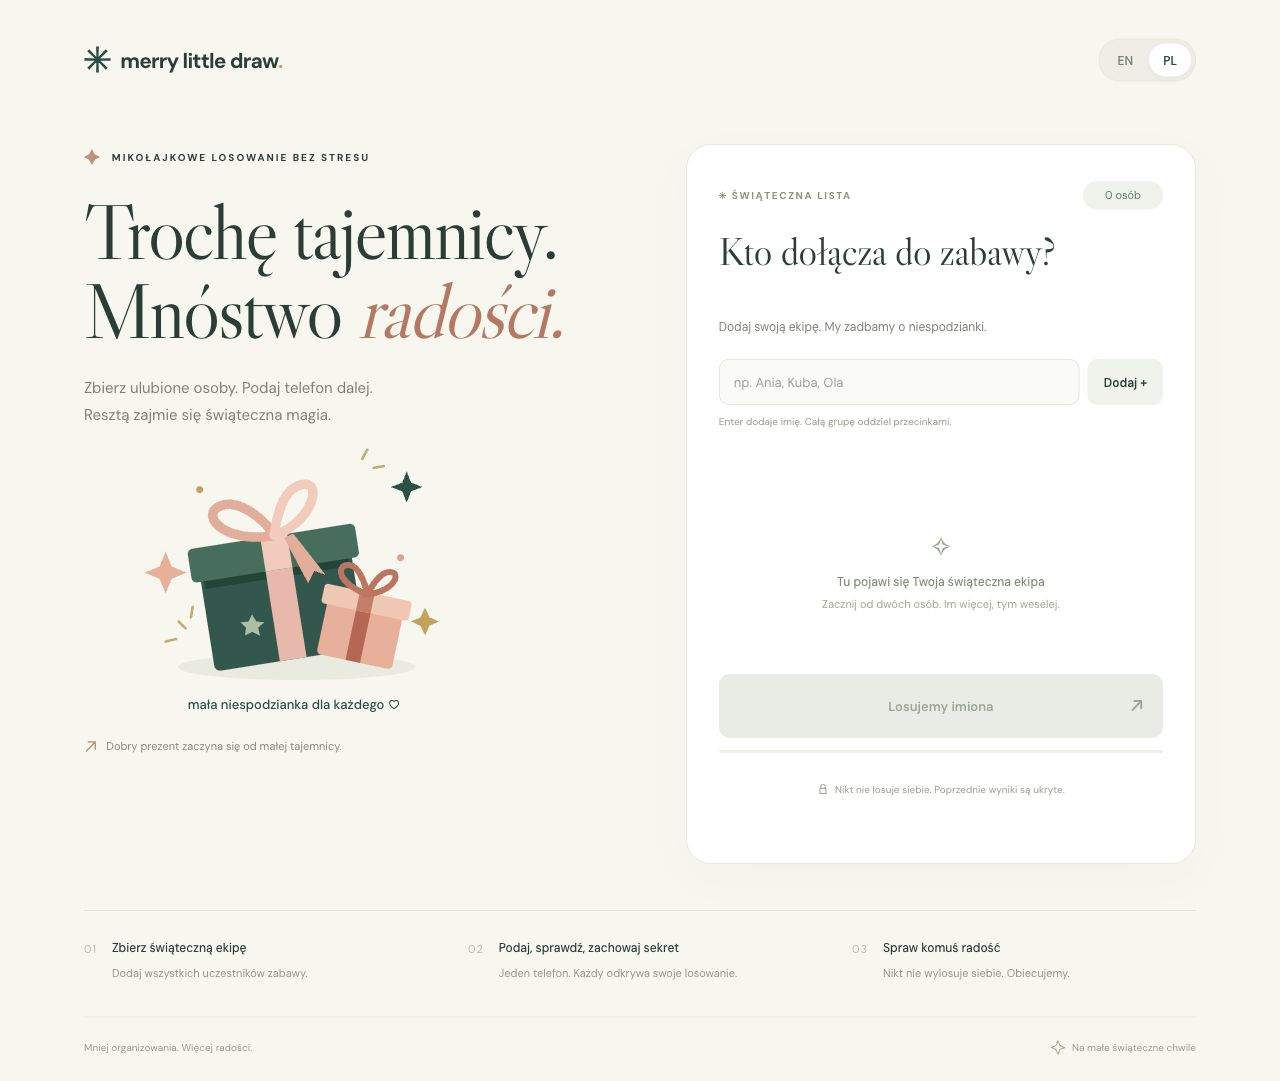
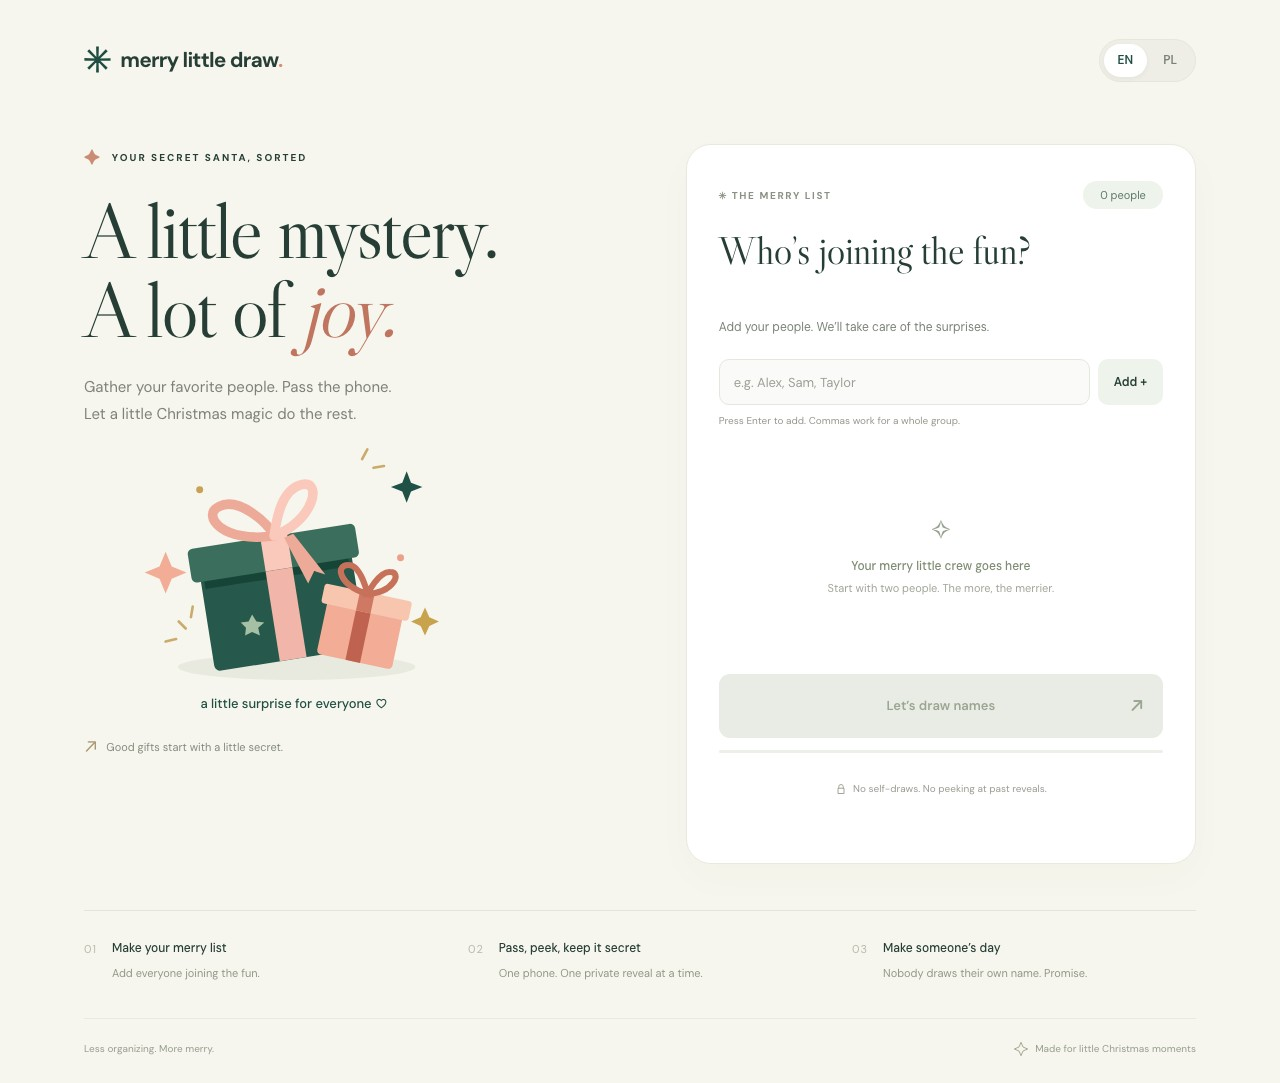
Show English site preview in README

diff --git a/README.md b/README.md
@@ -7,7 +7,7 @@
 Bring your favorite people together, add their names, and pass one phone around.<br>
 Everyone privately discovers who they’re buying a gift for—with a little confetti along the way.
 
-**2–50 people** &nbsp; · &nbsp; **English & Polish** &nbsp; · &nbsp; **No accounts** &nbsp; · &nbsp; **Made for mobile**
+**2–50 people** &nbsp; · &nbsp; **English & Polish** &nbsp; · &nbsp; **No accounts**
 
 [How it works](#how-it-works) · [Run locally](#run-locally) · [Build & deploy](#build--deploy) · [Translations](#translations)
 
@@ -24,7 +24,7 @@ person. Once a reveal is dismissed, the next person can’t browse back to it.
 
 ![Merry Little Draw desktop preview: a cream and forest-green page with gift illustrations, an English/Polish switcher, and a participant list.](docs/images/site-preview.jpg)
 
-<p align="center"><sub>Desktop preview · Polish interface. Designed for passing a phone around, with room to shine on a bigger screen.</sub></p>
+<p align="center"><sub>Desktop preview · English interface. Designed for passing a phone around, with room to shine on a bigger screen.</sub></p>
 
 ## How it works
 
